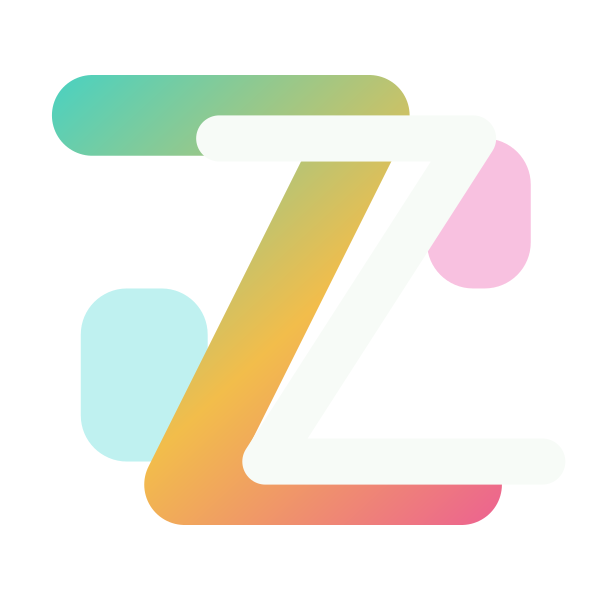
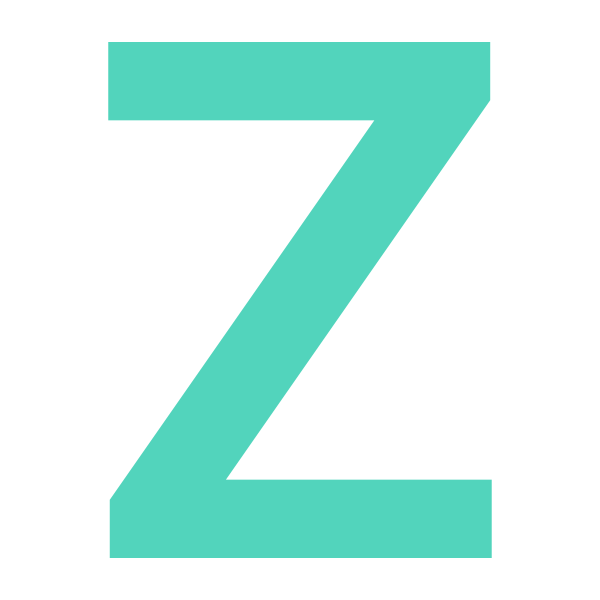
Alinear el configurador con la marca nueva de la tienda
La tienda se rediseno y el configurador quedo con la marca anterior: la Z con
degradado cian-ambar-magenta sobre dos rectangulos que simulaban teclas. Quien
llega hasta aqui desde el pie de la tienda veia dos marcas distintas y tenia
motivos para dudar de estar en el mismo sitio.

Ahora la Z es plana, en menta, y es literalmente la misma curva del logotipo de
la tienda, sacada de la fuente en vez de redibujada: asi no puede irse
separando con el tiempo. El favicon pasa a ser el icono de la tienda tal cual,
y el PNG que se ve en modo 3D se regenera desde esa misma curva.

La paleta sigue la regla de siempre: cambian los valores de las variables de
VIA, no los componentes, para que rebasar con upstream no se encarezca. El
unico gris que no sale de la tienda es el de controles y bordes, porque alli
se define como blanco con alfa y VIA lo usa tambien como relleno, donde el alfa
se acumularia; va aplanado sobre el color de tarjeta.

El modo claro conserva en cuatro variables los valores que ya tenia: la paleta
de la tienda es solo oscura, y su gris apagado y su rojo no se leen sobre
marfil.

De paso, --color_error en modo oscuro se referenciaba a si mismo. Un ciclo asi
invalida la variable, de modo que ese rojo nunca llegaba a pintarse.

diff --git a/src/app.global.css b/src/app.global.css
@@ -15,8 +15,8 @@ body {
 }
 body {
   position: relative;
-  color: white;
-  background-color: #0c110e;
+  color: #f2f5ef;
+  background-color: #0b100e;
   font-family: Inter, ui-sans-serif, system-ui, -apple-system, BlinkMacSystemFont,
     'Segoe UI', 'Fira Sans', Helvetica, Arial, sans-serif;
   font-weight: 300;
@@ -35,7 +35,7 @@ h2 {
   font-size: 2.25rem;
   font-weight: bold;
   letter-spacing: -0.025em;
-  color: #fff;
+  color: #f2f5ef;
 }
 p {
   font-size: 24px;
@@ -44,7 +44,7 @@ li {
   list-style: none;
 }
 a {
-  color: white;
+  color: #f2f5ef;
   opacity: 0.75;
   text-decoration: none;
 }
@@ -54,19 +54,26 @@ a:hover {
   cursor: pointer;
 }
 :root {
-  /* Paleta de Zelvoq, tomada de site/styles.css del landing.
+  /* Paleta de Zelvoq, tomada de la hoja de estilos de la tienda.
      Los nombres de variable son los de VIA; solo cambian los valores, asi que
-     los componentes no se tocan y el rebase con upstream sigue siendo barato. */
-  --color_error: #d94b18;        /* coral  */
-  --color_light-grey: #cad5ce;
-  --color_medium-grey: #59645d;  /* muted  */
+     los componentes no se tocan y el rebase con upstream sigue siendo barato.
+     Al lado de cada uno va el nombre que tiene en la tienda, para poder
+     comparar las dos listas de un vistazo cuando la marca vuelva a cambiar. */
+  --color_error: #ff8f8f;        /* destructive      */
+  --color_light-grey: #f2f5ef;   /* foreground       */
+  --color_medium-grey: #acbab0;  /* muted-foreground */
 
-  --color_dark-grey: #2b3630;
-  --color_light-jet: #1b241e;    /* dark-2 */
-  --color_jet: #111713;          /* dark   */
-  --color_warm-white: #f3f5f1;   /* bg     */
-  --color_tinge: #d2dbd4;        /* line   */
-  --color_tinge-light: #e9eee8;  /* surface-muted */
+  /* La tienda no define este gris: sus bordes y controles son blanco con alfa
+     sobre el fondo. VIA lo usa ademas como relleno de controles, donde el alfa
+     se acumularia, asi que va aplanado: --border (8% de blanco) sobre --card. */
+  --color_dark-grey: #242a27;
+  --color_light-jet: #1a231d;    /* accent     */
+  --color_jet: #111814;          /* card       */
+  --color_warm-white: #f2f5ef;   /* foreground */
+  /* El modo claro no tiene equivalente en la tienda, que es solo oscura.
+     Estos tres son tintes del marfil, para que siga siendo usable. */
+  --color_tinge: #d2dbd4;
+  --color_tinge-light: #e9eee8;
   --color_tinge-dark: #59645d;
   --box-shadow-keycap: inset -1px -1px 0 rgb(0 0 0 / 20%),
     inset 1px 1px 0 rgb(255 255 255 / 20%);
@@ -77,7 +84,9 @@ a:hover {
 html[data-theme-mode='dark'] {
   --color_label: var(--color_medium-grey);
   --color_label-highlighted: var(--color_light-grey);
-  --color_error: var(--color_error);
+  /* Aqui habia un --color_error: var(--color_error) que se referenciaba a si
+     mismo. Un ciclo asi invalida la variable, asi que en oscuro --color_error
+     no valia nada y el rojo del :root nunca llegaba a pintarse. */
   --border_color_icon: var(--color_medium-grey);
   --border_color_cell: var(--color_dark-grey);
   --bg_icon: var(--color_medium-grey);
@@ -93,12 +102,16 @@ html[data-theme-mode='dark'] {
   --bg_control-disabled: transparent;
 }
 html[data-theme-mode='light'] {
-  --color_label: var(--color_medium-grey);
+  /* Los cuatro valores que siguen se apartan de la paleta de la tienda, que
+     es solo oscura: su gris apagado y su rojo estan pensados para leerse
+     sobre carbon y aqui irian sobre marfil. Son los que tenia el modo claro
+     antes, asi que no cambia de aspecto. */
+  --color_label: var(--color_tinge-dark);
   --color_label-highlighted: var(--color_light-jet);
-  --color_error: var(--color_error);
-  --border_color_icon: var(--color_medium-grey);
+  --color_error: #d94b18;
+  --border_color_icon: var(--color_tinge-dark);
   --border_color_cell: var(--color_tinge-dark);
-  --bg_icon: var(--color_medium-grey);
+  --bg_icon: var(--color_tinge-dark);
   --bg_icon-highlighted: var(--color_light-jet);
   --color_icon-highlighted: var(--color_tinge-light);
   --bg_menu: var(--color_tinge-light);

diff --git a/src/components/chippy-loader.tsx b/src/components/chippy-loader.tsx
@@ -28,7 +28,7 @@ const CircleContainer = styled.div<{
   /* Upstream usa var(--bg_icon), un gris apagado pensado para iconos. La marca
      de Zelvoq esta hecha para fondo oscuro, como en el logo y el favicon. */
   background-color: var(--color_light-jet);
-  box-shadow: inset 0 0 0 1px rgba(52, 212, 208, 0.18);
+  box-shadow: inset 0 0 0 1px rgba(82, 212, 188, 0.18);
   height: ${(props) => props.$containerHeight}px;
   width: ${(props) => props.$containerWidth}px;
   position: relative;
@@ -77,62 +77,25 @@ type Props = {
  *
  * Los colores son los de marca y no derivan del tema a proposito: el logo
  * tiene que verse igual con cualquier tema de teclas. El acento del tema sigue
- * mandando en el circulo de progreso, que es de ChippyLoader. */
+ * mandando en el circulo de progreso, que es de ChippyLoader.
+ *
+ * La Z es la misma curva que la del logotipo de la tienda y la del favicon de
+ * aqui al lado: sale de la fuente, no esta redibujada, asi que las dos marcas
+ * no pueden separarse con el tiempo. La curva se describe con el eje Y hacia
+ * arriba, de ahi la escala negativa; el translate centra su caja -de 158 a
+ * 1680 en X- dentro del viewBox. */
 const SvgComponent: React.FC<any & {theme: Theme}> = (props) => (
   <svg
     xmlns="http://www.w3.org/2000/svg"
-    viewBox="6 8 52 48"
+    viewBox="0 0 64 64"
     x={0}
     y={0}
     {...props}
   >
-    <defs>
-      <linearGradient
-        id="zelvoq-edge"
-        x1={10}
-        y1={8}
-        x2={54}
-        y2={56}
-        gradientUnits="userSpaceOnUse"
-      >
-        <stop offset={0} stopColor="#34d4d0" />
-        <stop offset={0.52} stopColor="#f2bd4b" />
-        <stop offset={1} stopColor="#eb4aa3" />
-      </linearGradient>
-    </defs>
-    <rect
-      x={13}
-      y={31}
-      width={11}
-      height={15}
-      rx={4}
-      fill="#34d4d0"
-      opacity={0.32}
-    />
-    <rect
-      x={43}
-      y={18}
-      width={9}
-      height={13}
-      rx={4}
-      fill="#eb4aa3"
-      opacity={0.34}
-    />
     <path
-      d="M14 16h24L22 48h24"
-      fill="none"
-      stroke="url(#zelvoq-edge)"
-      strokeWidth={7}
-      strokeLinecap="round"
-      strokeLinejoin="round"
-    />
-    <path
-      d="M25 18h22L29 46h24"
-      fill="none"
-      stroke="#f7fbf7"
-      strokeWidth={4}
-      strokeLinecap="round"
-      strokeLinejoin="round"
+      transform="translate(9.03 57.6) scale(0.025 -0.025)"
+      d="M164 0V231L1214 1737H158V2048H1674V1817L625 311H1680V0Z"
+      fill="#52d4bc"
     />
   </svg>
 );

diff --git a/src/utils/themes.ts b/src/utils/themes.ts
@@ -10,18 +10,20 @@ export type Theme = {
 export const THEMES = {
   ...{
     ZELVOQ: {
-      // Teclas oscuras con leyenda clara y acento cian, como el logo.
+      // Teclas oscuras con leyenda clara y acento menta, como el logo.
+      // Los seis valores son tokens de la tienda: las alfas van sobre --accent
+      // y las mods sobre --card, la misma jerarquia de superficies de alli.
       alpha: {
-        c: '#1b241e',
-        t: '#e9eee8',
+        c: '#1a231d',
+        t: '#f2f5ef',
       },
       mod: {
-        c: '#111713',
-        t: '#cad5ce',
+        c: '#111814',
+        t: '#acbab0',
       },
       accent: {
-        c: '#34d4d0',
-        t: '#0c110e',
+        c: '#52d4bc',
+        t: '#0b100e',
       },
     },
     OLIVIA_DARK: {

diff --git a/index.html b/index.html
@@ -5,8 +5,8 @@
   <meta charset="utf-8" />
   <link rel="icon" type="image/svg+xml" href="/configurador/favicon.svg">
   <link rel="manifest" href="/configurador/site.webmanifest">
-  <meta name="msapplication-TileColor" content="#0c110e">
-  <meta name="theme-color" content="#0c110e">
+  <meta name="msapplication-TileColor" content="#0b100e">
+  <meta name="theme-color" content="#0b100e">
   <meta name="viewport" content="width=device-width, initial-scale=1" />
   <meta name="description" content="Configura tu teclado Zelvoq desde el navegador." />
   <meta data-react-helmet="true" property="og:image" content="/configurador/favicon.svg">
